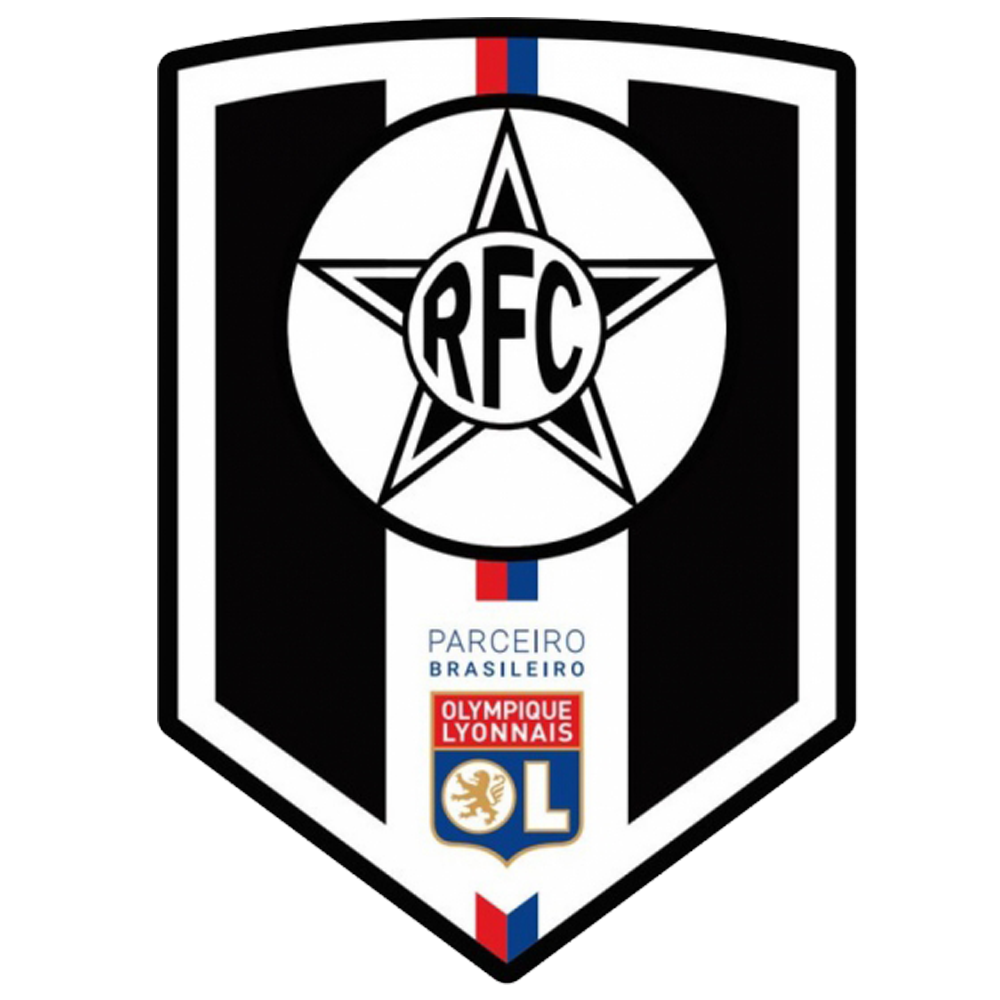
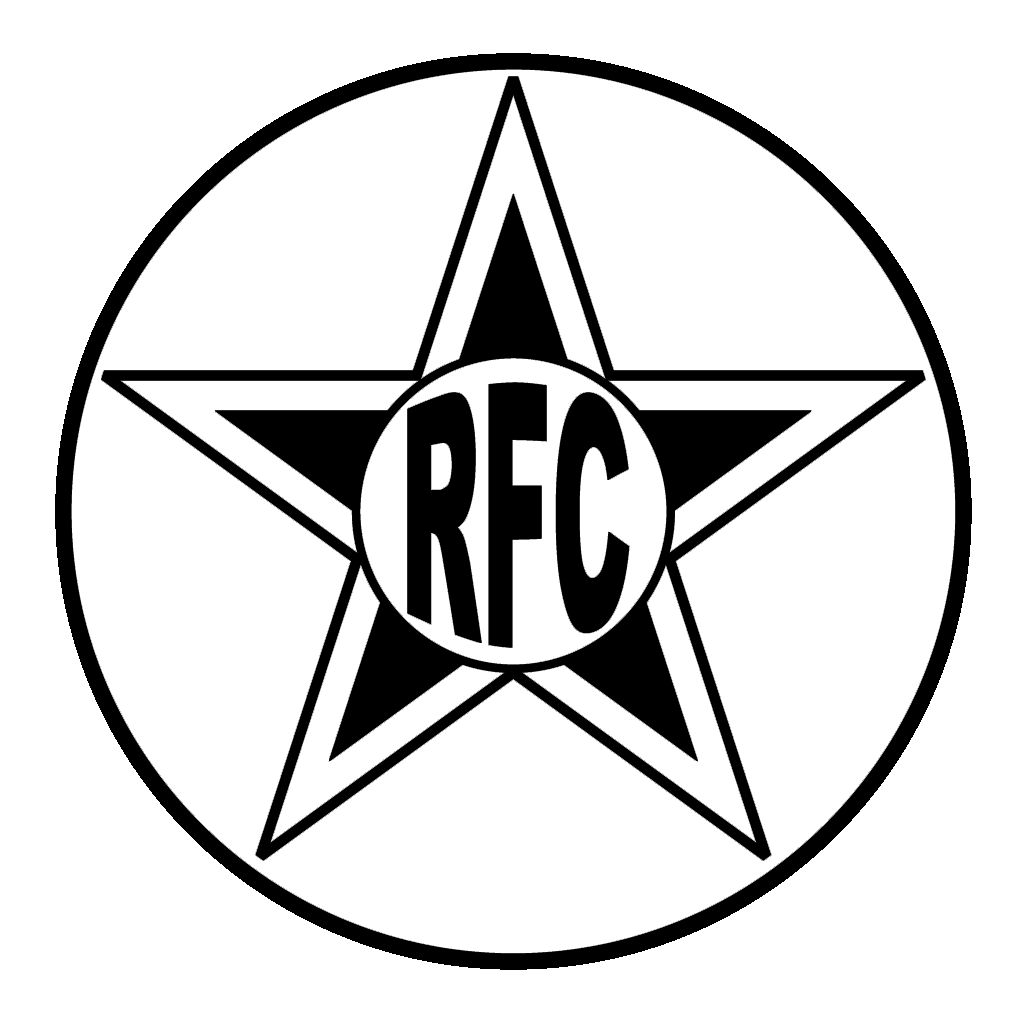
atualizando escudo do resende

diff --git a/src/Times.js b/src/Times.js
@@ -1342,7 +1342,7 @@ function Times(time, data) {
                   break;
             case "Resende":
                   nomeAtual = time;
-                  if (ano < 2020) {
+                  if (ano >= 2020 || ano < 2024) {
                         escudo = "Resende2020";
                   } else {
                         escudo = time;
